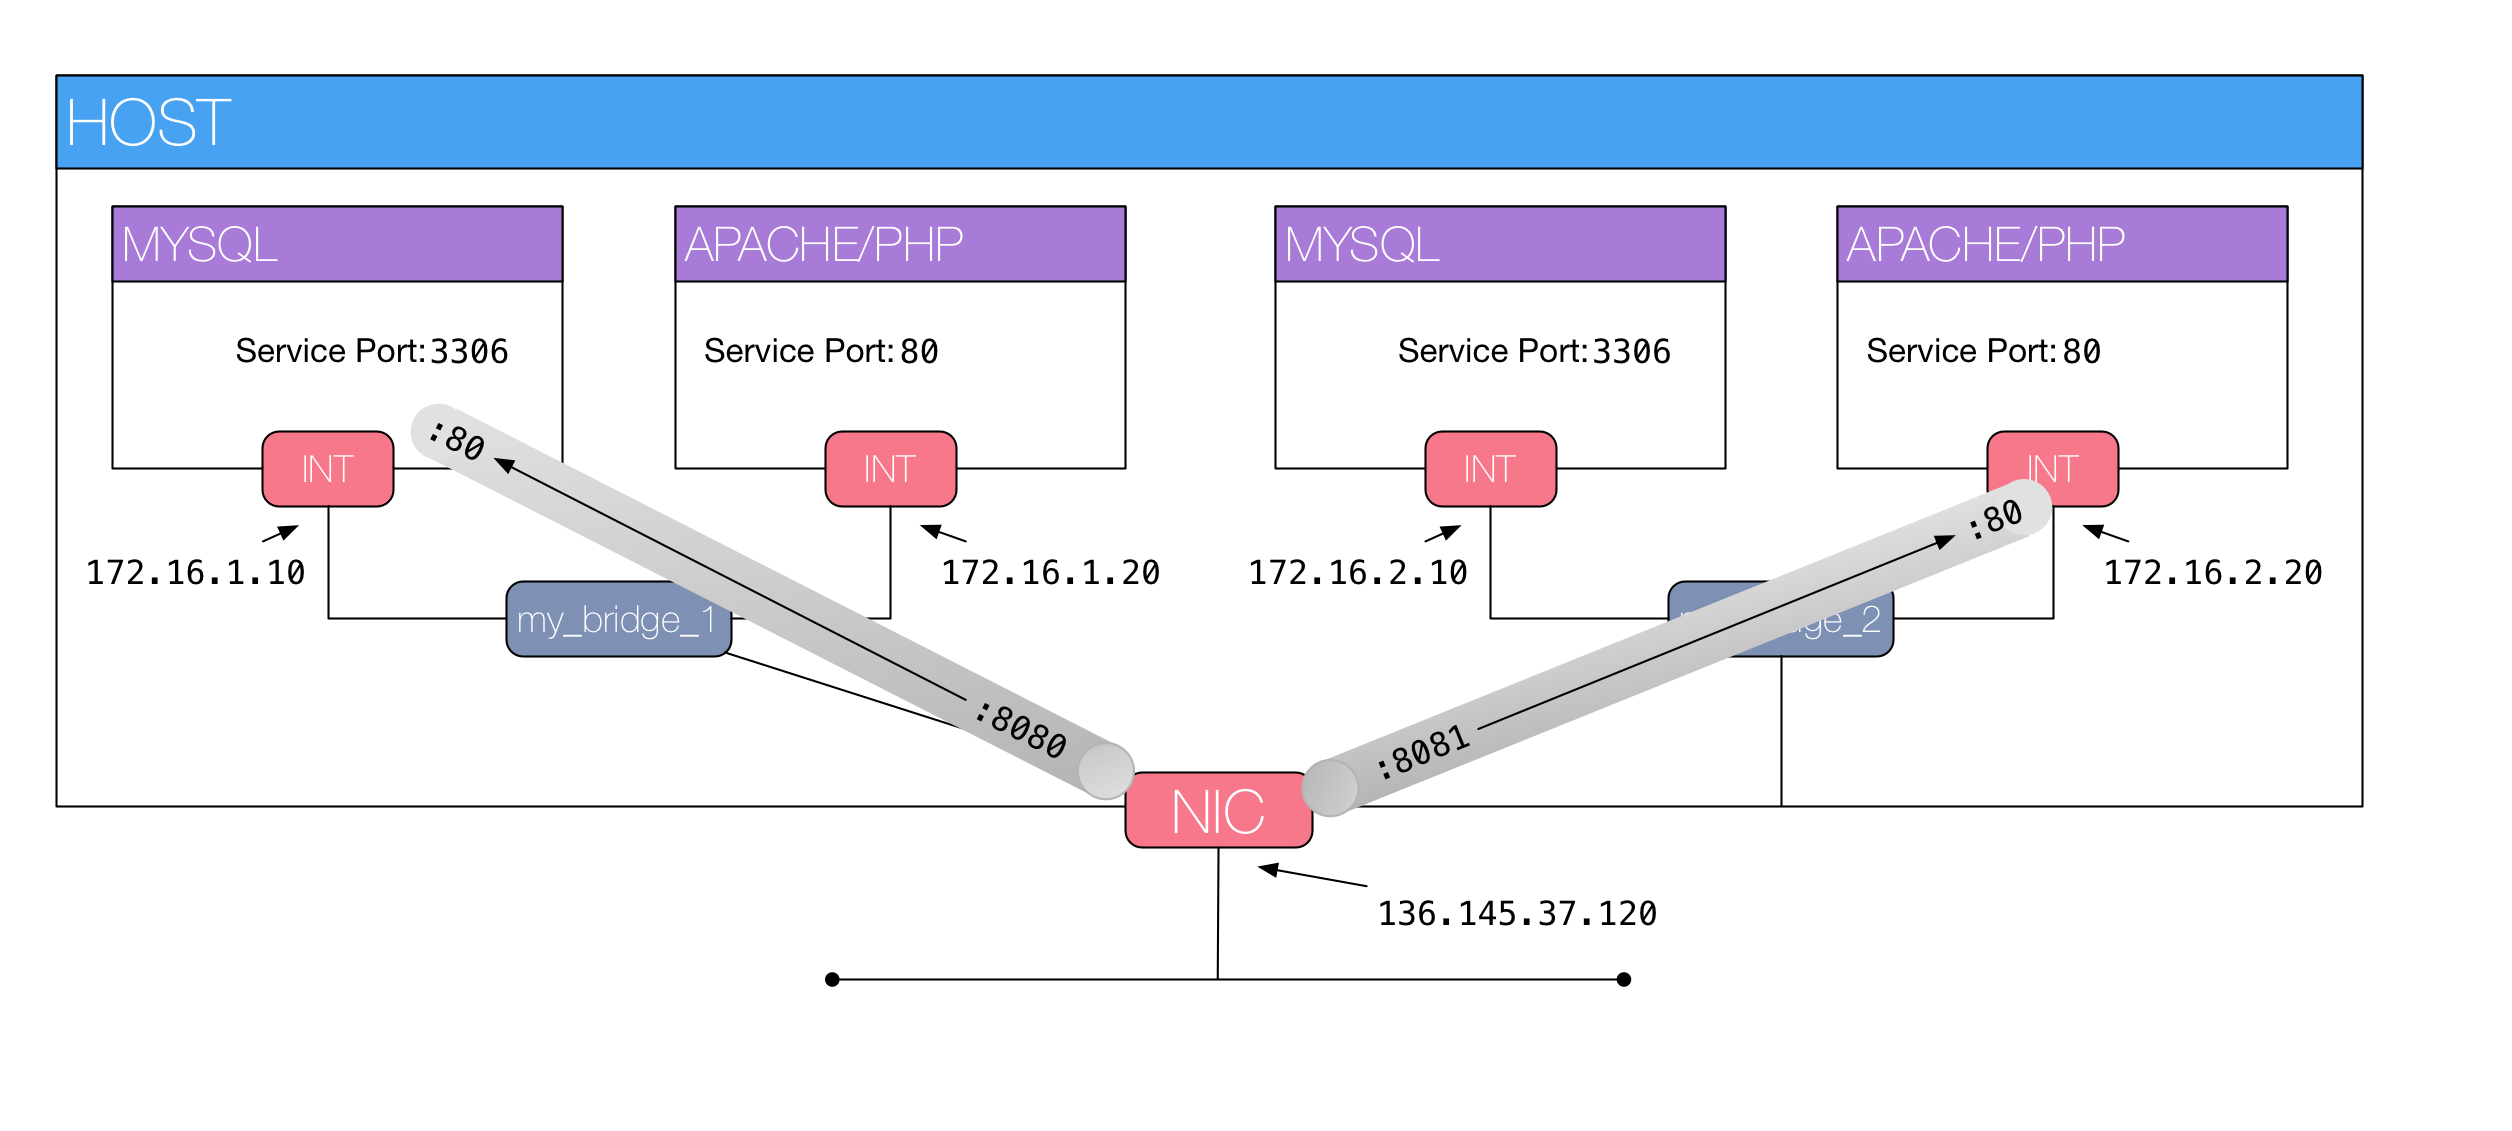
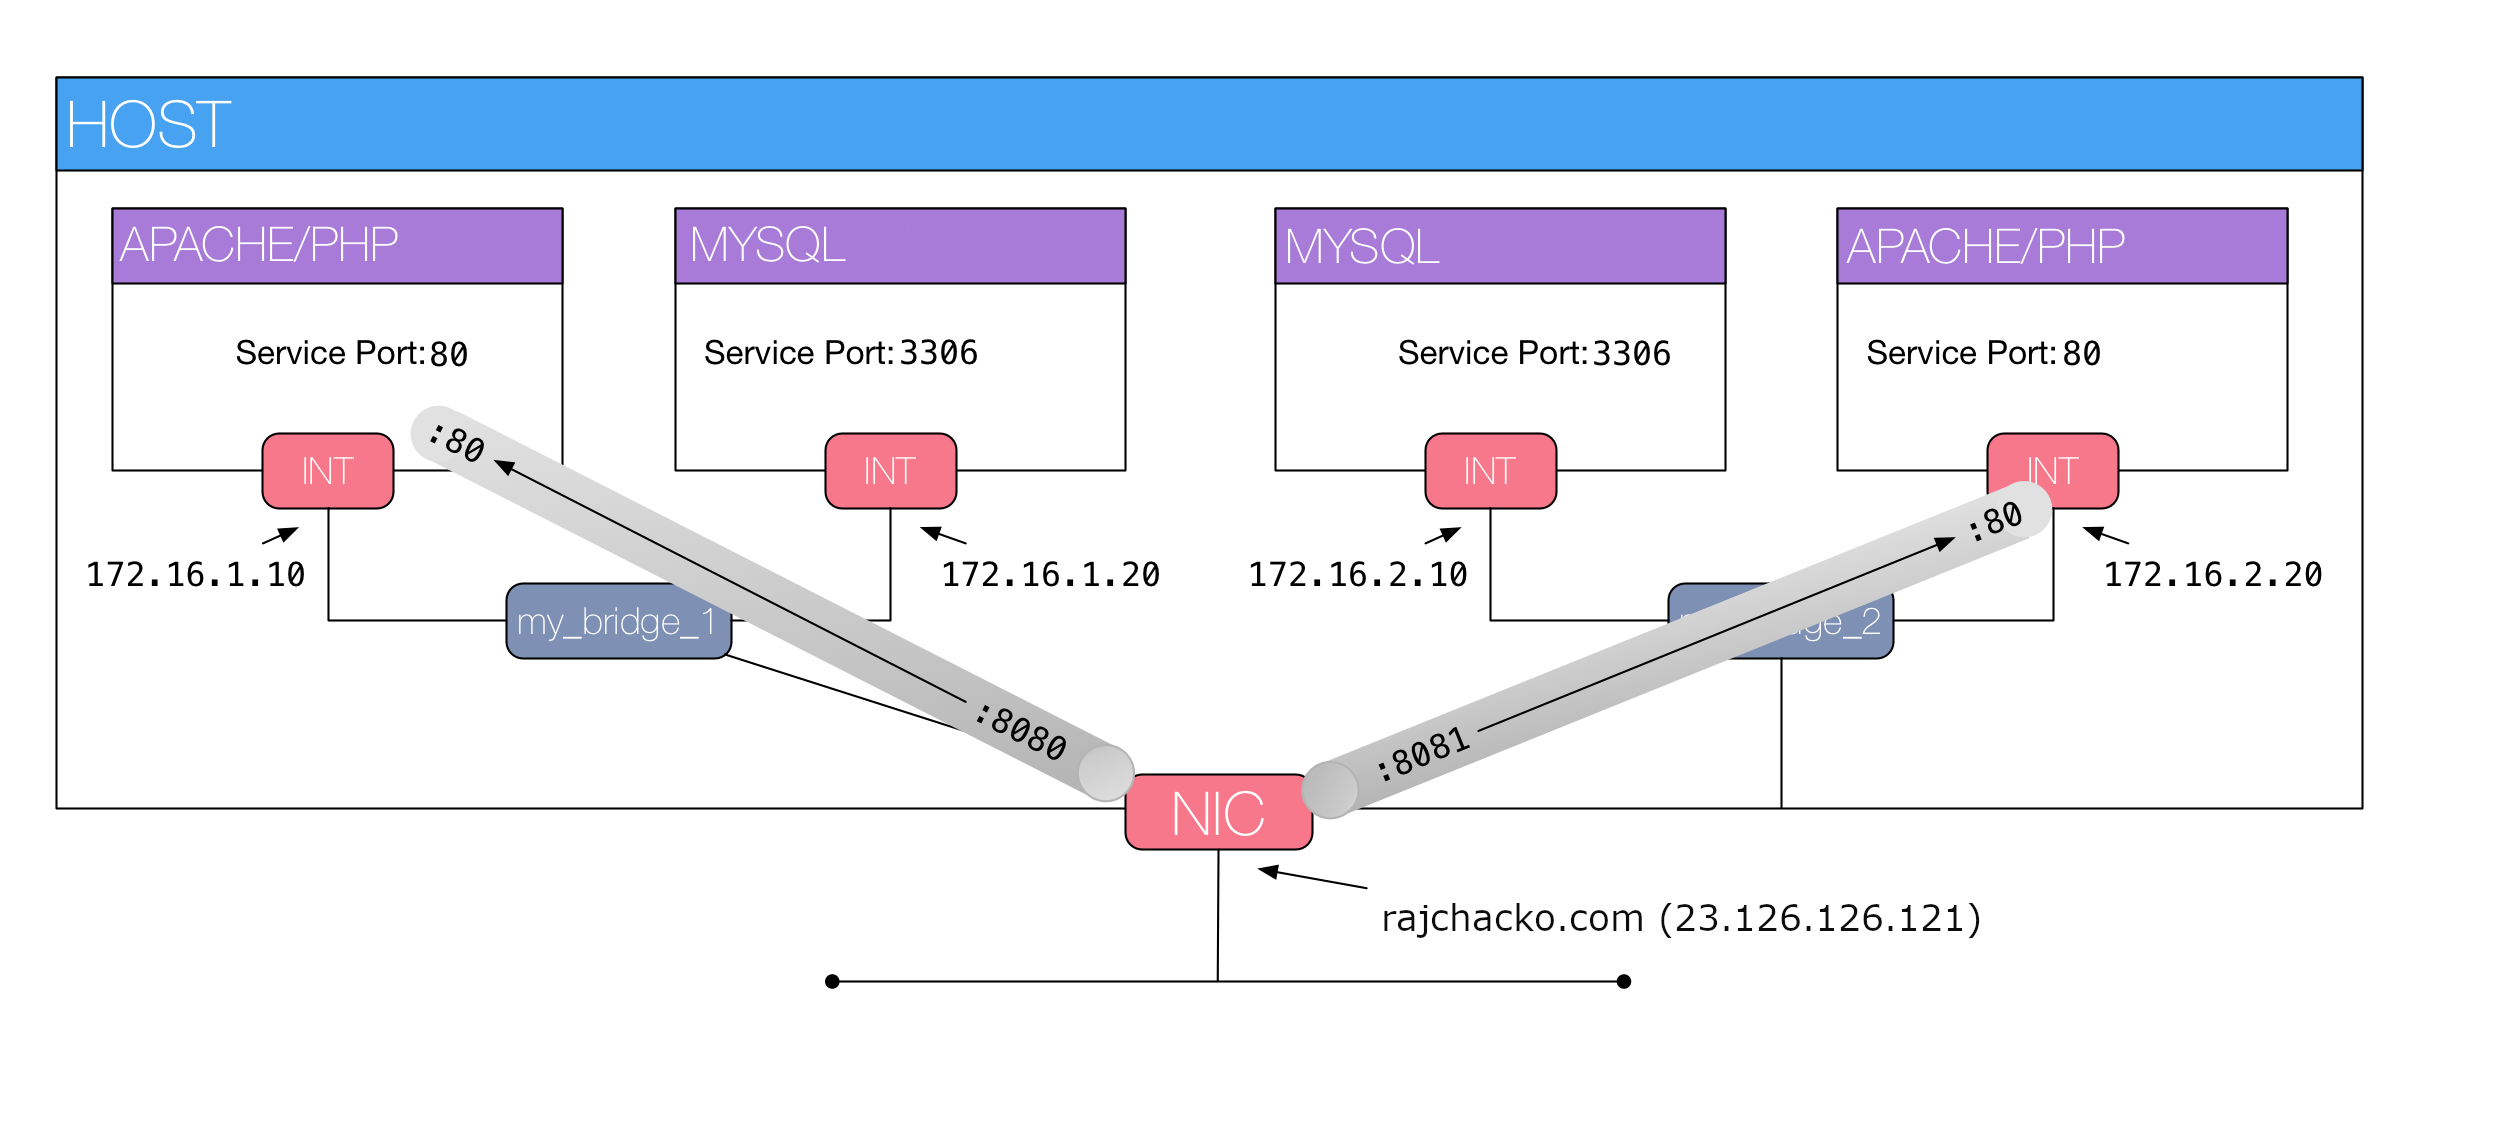
docker networking page update

diff --git a/lab/templates/bonus/host-net.html b/lab/templates/bonus/host-net.html
@@ -12,7 +12,7 @@
 
 <p>
     One fundamental concept to understand about containers is how they are exposed to the network. Normally
-    VM's are exposed as an IP in a VLAN that is route/known through the network. In the container world
+    VM's are exposed as an IP in a VLAN that is routed/known through the network. In the container world
     things are a little more specific. The IP of the host that runs the containers is vital, yet
     each service container running on the host is running inside a private network. Hence to reach
     the container service, a mapping of IP and PORT is needed to reach the network behind that
@@ -53,7 +53,7 @@
     </div>
     <div class="col-md-6 col-sm-12 ">
         <p>
-            The host has a public internet routable address of 136.145.37.120. There are
+            The host has a public internet routable address of 23.126.126.121. There are
             two separate containers running on this host that are using the defined
             <kbd>my_bridge</kbd> network.
         </p>
@@ -74,7 +74,7 @@
             To make it possible to reach the internal port 80 a <strong>mapping</strong>
             is created in Docker to map from the outside interface to the
             internal network host. With a mapping of external port 80 to internal
-            port 80, now people reaching the ip address of 136.145.37.120 with
+            port 80, now people reaching the ip address of 23.126.126.121 with
             a browser would reach the container.
         </p>
         <p>
@@ -95,7 +95,7 @@
     for which each service is then advertised to the world via that port.
 </p>
 <p>
-    You could advertise the service as www.myShoeShop.com:8081 to the world but it would
+    You could advertise the service as rajchacko.com:8081 to the world but it would
     be very confusing. For this reason an old construct is built to manage this relationship;
     the load balancer or service gateway.
 </p>
@@ -108,7 +108,7 @@
             Load balancers or Proxies let you front end a large cluster of
             services and advertise them with DNS to the world. You can create a
             service in the load balancer that is ready to receive traffic for
-            www.myShoeShop.com and properly route it to the containers that are going to
+            rajchacko.com and properly route it to the containers that are going to
             deliver the service. This also makes it easy to define scalability by giving the
             user the ability to automatically create more service containers to handle the
             load.
@@ -117,37 +117,36 @@
             This process is critical in understanding when you look at orchestration of
             containers with applications like Docker Swarm, Kubernetes, Mesos and
             others. Each tries to solve specific pain points that exist in managing
-            this. Kubernetes has become an industry standard.
+            this. Kubernetes has been adopted as the leader and is now an industry standard.
         </p>
         <p>
             In the diagram on the right, you can see that a load balancer is aware of
-            a service that will arrive into the host with the URL myShoeSop.com. The
+            a service that will arrive into the host with the URL rajchacko.com. The
             load balancer/proxy upon receiving the request has what is known as a
             <b>application route</b> defined and understands what containers in the network
             can answer for this service. In automated services platform like kubernetes, or
-            orchestration applications like OpenShift could monitor the
+            orchestration applications like OpenShift you could monitor the
             performance of the service and can automatically spawn more
             containers to manage the load.
+        </p>
+        <p>
+            What we have showed to this point is the host bridge driver that is the default
+            mode of operation of Docker. The problem is that this doesn't address
+            multiple hosts. For this, competing standards have been evolving for various years.
+            Container Network Model ( CNM ) was built by Docker itself. Around the same time
+            CoreOS came out with Container Network Interface (CNI).
+        </p>
+        <p>
+            Kubernetes, maybe the most popular orchestrator Using CNI instead of CNM due to
+            several issues with CNM. Since Google is the muscle behind Kubernetes, that decision drove
+            the industry in this direction. Big names like CloudFoundry, Mesos and others
+            utilize CNI; Including Cisco.
         </p>
     </div>
     <div class="col-sm-12 col-md-6">
         <img src="/lab/static/images/docker/docker-net-3.png" class="img-responsive">
     </div>
 </div>
-<p>
-    What we have showed to this point is the host bridge driver that is the default
-    mode of operation of Docker. The problem is that this doesn't address
-    multiple hosts. For this competing standards have been evolving for various years.
-    Container Network Model ( CNM ) was built by Docker itself. Around the same time
-    CoreOS came out with Container Network Interface (CNI).
-</p>
-<p>
-    Kubernetes, maybe the most popular orchestrator uses CNI instead of CNM due to
-    several issues. Since Google is the muscle behind Kubernetes, that decision drove
-    the industry in this direction. Big names like CloudFoundry, Mesos and others
-    utilize CNI; Including Cisco.
-</p>
-
 
 <h2>How Overlays play a role in container networks</h2>
 <p>
@@ -164,7 +163,7 @@
     multiple hosts requires the ability to think bigger.
 </p>
 <p>
-    What best way to address this then to utilize network overlays to be able to
+    What best way to address this than to utilize network overlays to be able to
     transport packets from host to host with a relationship to the network that
     they belong to.
 </p>

diff --git a/lab/templates/ccp/setup.html b/lab/templates/ccp/setup.html
@@ -127,7 +127,7 @@ Step {% set step = step +  1 %}
 <p>This page is for vCenter specific details as shown, pick '{{data.apic_stdnt_uname}}' as your resource pool</p>
 <img src="/lab/imgman/pod/{{ data.pod_id }}/id/13" class="img-responsive">
 <p>
-<b>Click NEXT</b>
+<b>Click 'NEXT'</b>
 </p>
 <!--
 ##############################################################################################################################
@@ -149,7 +149,7 @@ CCP control plane comes with this built-in if you chose to install it on your CC
 <img src="/lab/imgman/pod/{{ data.pod_id }}/id/9" class="img-responsive">
 <p>Input NTP and Registry as shown below (At least one entry for NTP)</p>
 <img src="/lab/static/images/ccp/ccp7.png" class="img-responsive img-shadow">
-<p>Doble-check the settings and then, Click NEXT, and FINISH</p>
+<p>Double-check the settings and then, Click 'NEXT', and 'FINISH'</p>
 
 {{ end_of_page(page_position,data) }}
 {% endblock %}
